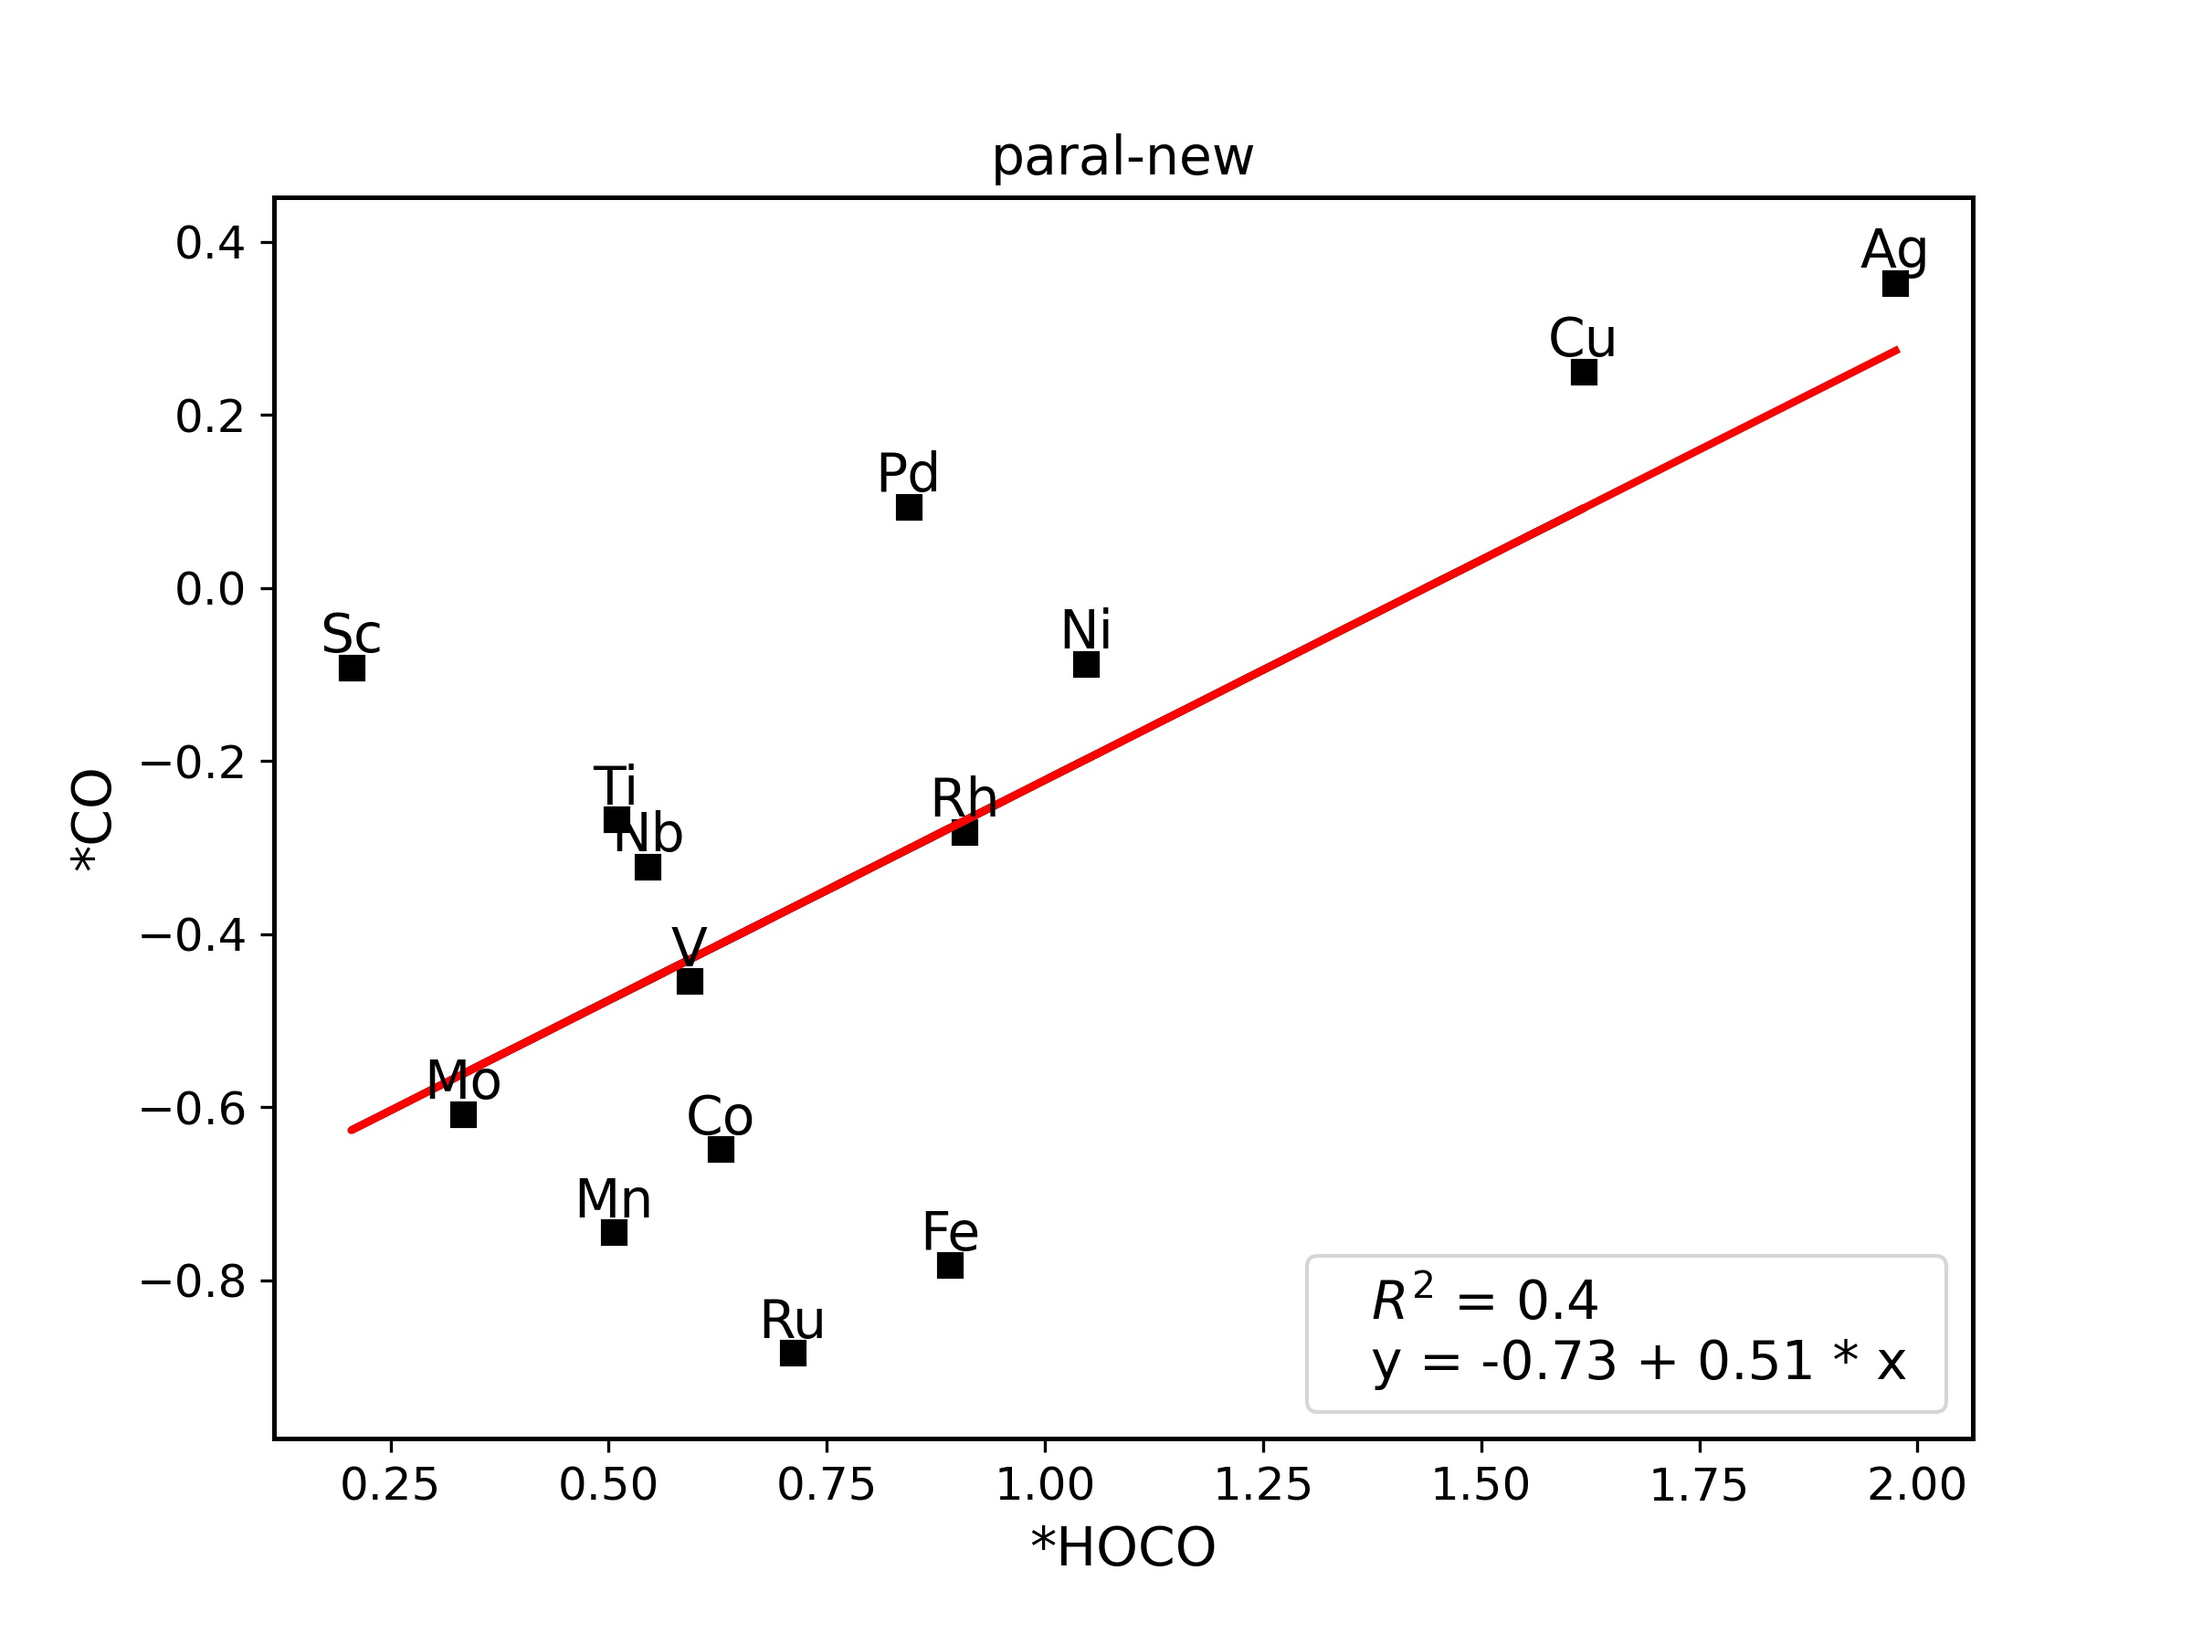
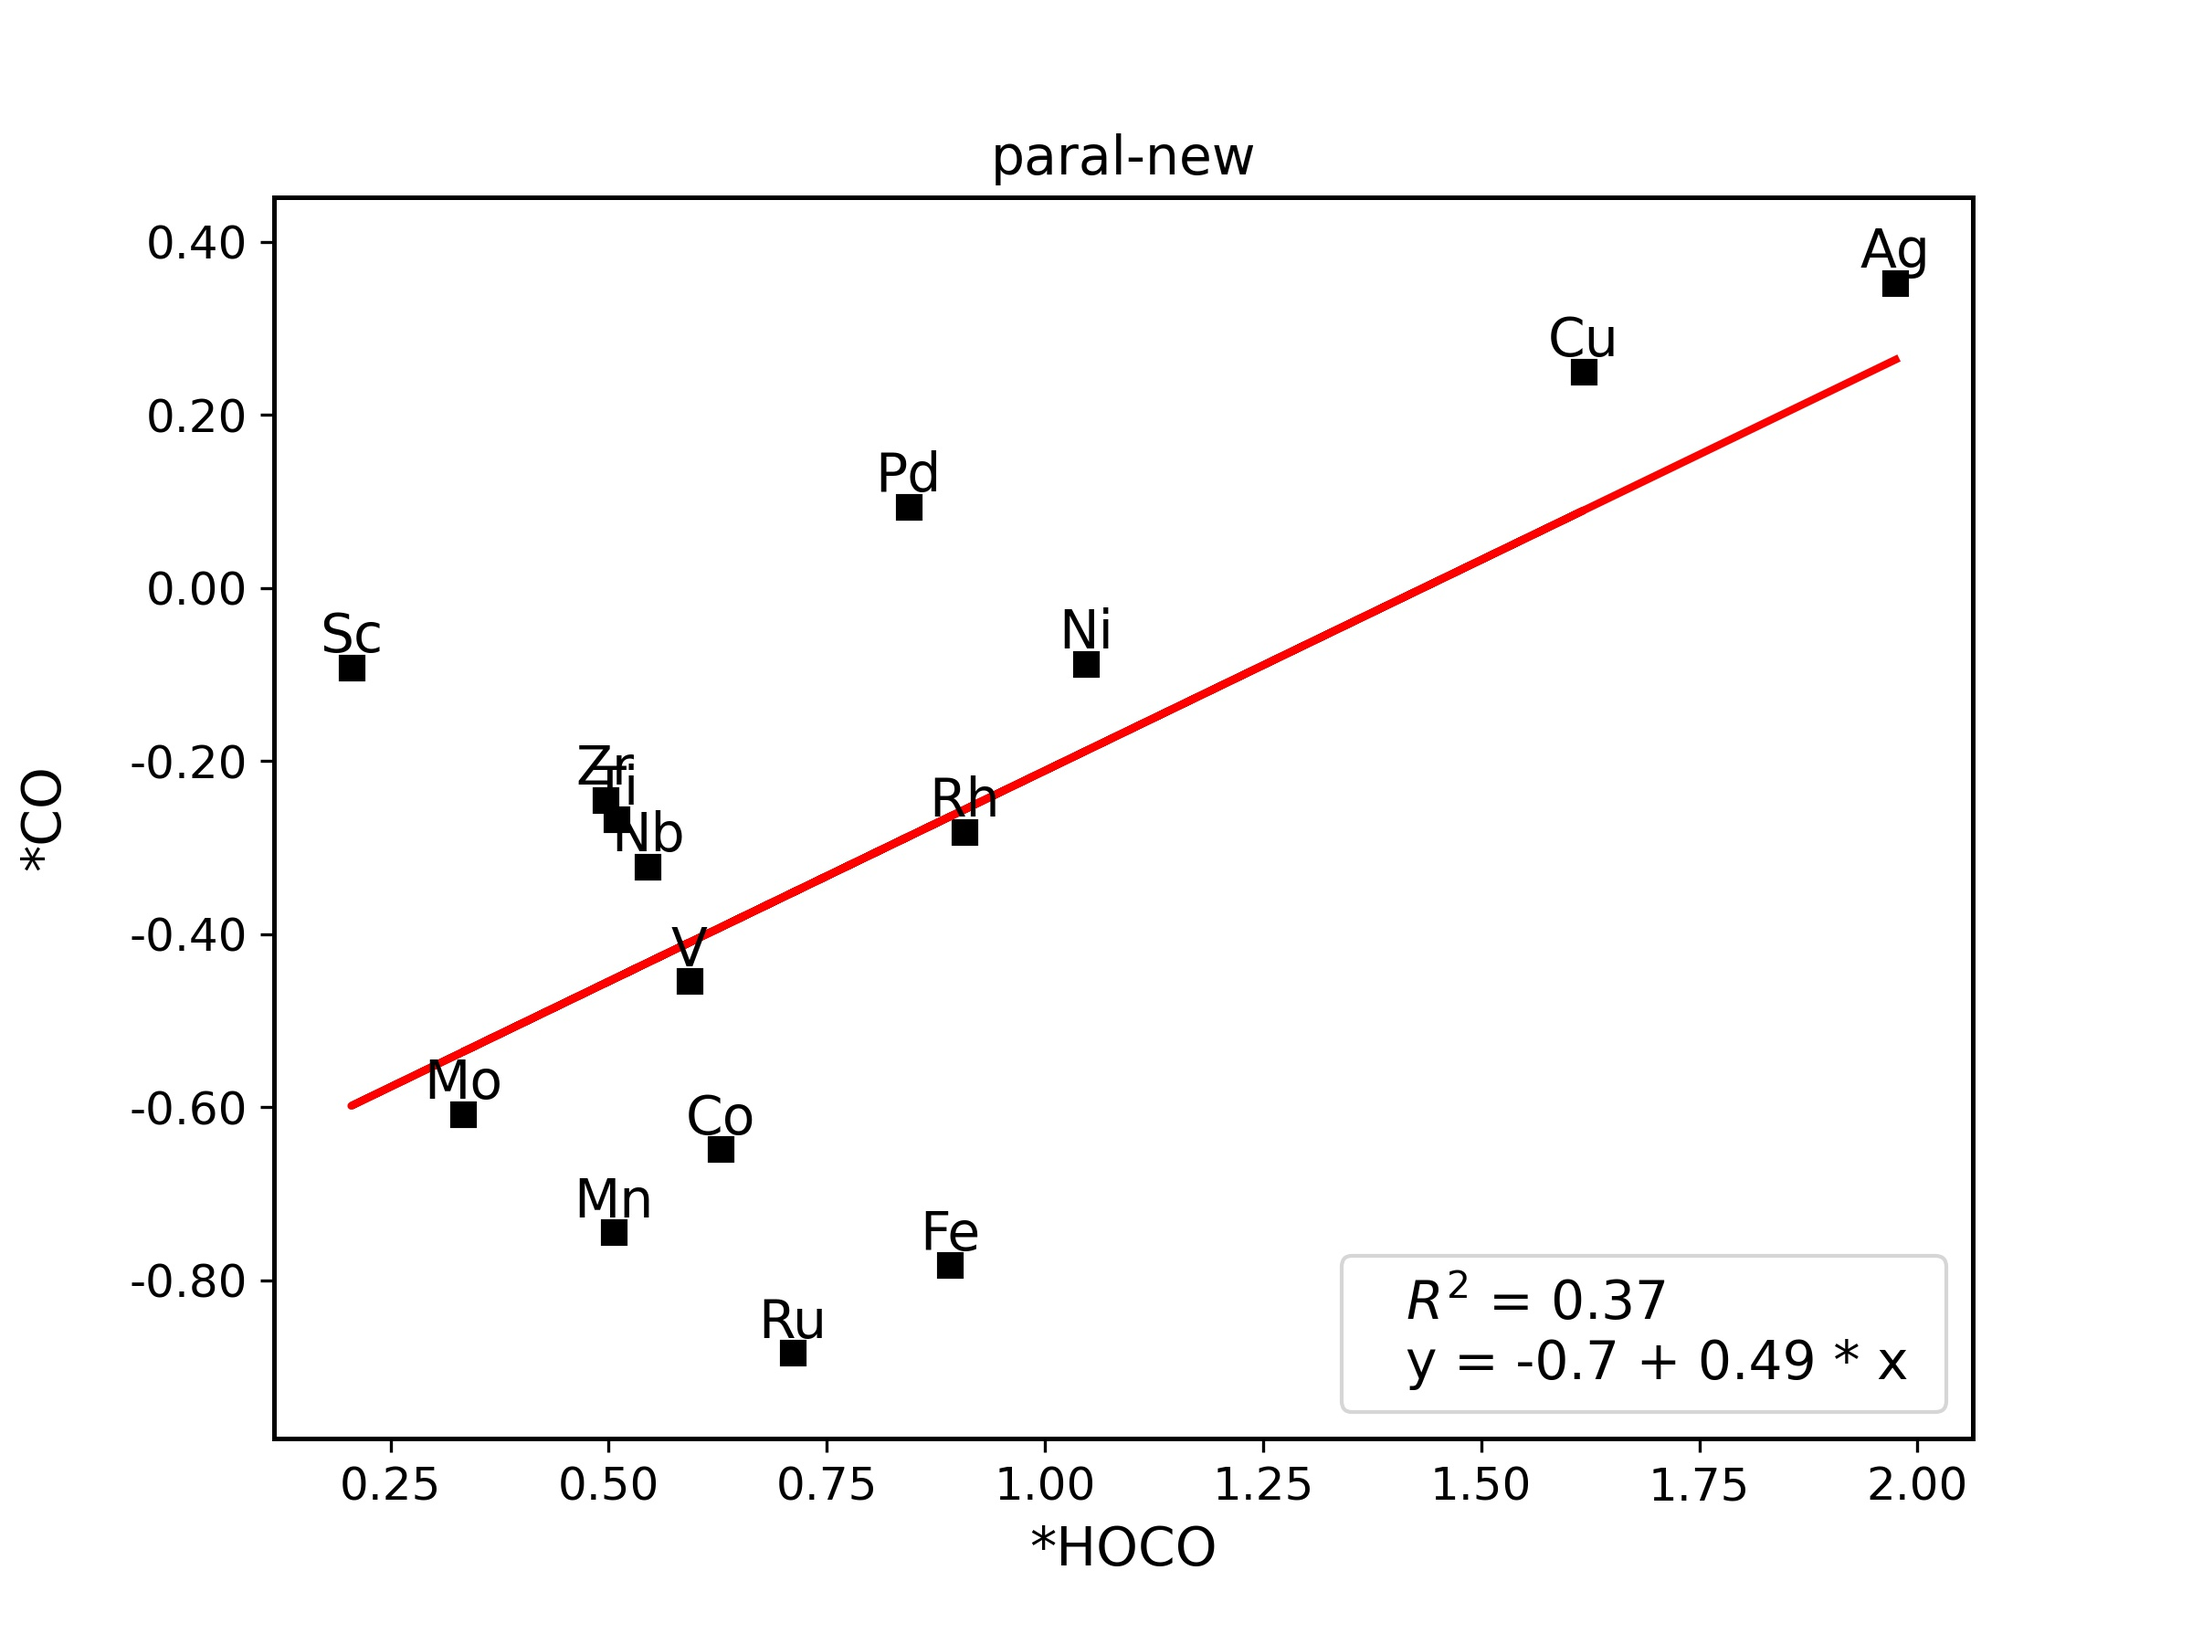
update data

diff --git a/plotpackage/myproject/CO2RR_sacling_typesetting.py b/plotpackage/myproject/CO2RR_sacling_typesetting.py
@@ -28,8 +28,8 @@ figName2 = '../pictures/ScalingRelation_typesetting.jpg' #scaling reation figure
 
 # text = ['Near', 'Line', 'Triangle', 'Parall.', 'Island', 'Overlayer']
 text = ['Single', 'Line', 'Triangle', 'Parall.', 'Island', 'Overlayer']
-colx = [2, 2, 2, 3, 3, 5] #column in excel
-coly = [3, 5, 4, 5, 4, 4] #column in excel
+colx = [3, 2, 2, 3, 3, 5] #column in excel
+coly = [2, 5, 4, 5, 4, 4] #column in excel
 for index in [0, 1, 4]:
     # col1=3 # column in excel
     # col2=4 # column in excel
@@ -51,21 +51,35 @@ for index in [0, 1, 4]:
         
         # # del rows; delete according to element names in excel
         del_ele = []
+        # if types == 'top-new':
+        #     del_ele = [] #remove distortion for near
+        # if types == 'near-new':
+        #     del_ele = ['Fe', 'Ru', 'Zr', 'Y', 'Mn', 'Nb', 'Zn' ] #remove distortion for near
+        # elif types == 'line':
+        #     del_ele = ['Ag', 'Y'] #remove distortion for line
+        # elif types == 'triangle':
+        #     del_ele = ['Y',] #remove distortion for triangle
+        # elif types == 'paral-new':
+        #     del_ele = ['Zn', 'Y', 'Zr'] #remove distortion for line
+        # elif types == 'island-new':
+        #     del_ele = ['Y', 'Zr',  'Zn'] #remove distortion for line
+        # elif types == 'overly-new':
+        #     del_ele = ['Sc', 'Zn', 'Y', 'Zr'] #remove distortion for line
+        # if types == 'near-new':
+        #     del_ele = ['Fe', 'Ru', 'Zr', 'Y', 'Mn', 'Nb', 'Zn' ] #remove distortion for near
         if types == 'top-new':
             del_ele = [] #remove distortion for near
-        if types == 'near-new':
-            del_ele = ['Fe', 'Ru', 'Zr', 'Y', 'Mn', 'Nb', 'Zn' ] #remove distortion for near
         elif types == 'line':
-            del_ele = ['Ag', 'Y'] #remove distortion for line
+            del_ele = ['Y', ] #remove distortion for line
         elif types == 'triangle':
             del_ele = ['Y',] #remove distortion for triangle
         elif types == 'paral-new':
-            del_ele = ['Zn', 'Y', 'Zr'] #remove distortion for line
+            del_ele = ['Zn', 'Y',] #remove distortion for paral
         elif types == 'island-new':
-            del_ele = ['Y', 'Zr',  'Zn'] #remove distortion for line
+            del_ele = ['Zn', 'Y', 'Zr'] #remove distortion for island
         elif types == 'overly-new':
             del_ele = ['Sc', 'Zn', 'Y', 'Zr'] #remove distortion for line
-            
+        # del_ele += ['Cu', 'Ag']
         del_rows = [observationName.index(each)+2 for each in del_ele]
         ### del_rows = [10, 12, 13, 18]  #delete according to rows in excel
         del_list = [x - 2 for x in del_rows]

diff --git a/plotpackage/myproject/CO2RR_TOF_2D_multi.py b/plotpackage/myproject/CO2RR_TOF_2D_multi.py
@@ -223,16 +223,30 @@ for types in ['top-new', 'line', 'triangle', 'paral-new', 'island-new', 'overly-
     del_ele = []
     # if types == 'near-new':
     #     del_ele = ['Fe', 'Ru', 'Zr', 'Y', 'Mn', 'Nb', 'Zn' ] #remove distortion for near
+    # if types == 'top-new':
+    #     del_ele = [] #remove distortion for near
+    # elif types == 'line':
+    #     del_ele = ['Ag', 'Y'] #remove distortion for line
+    # elif types == 'triangle':
+    #     del_ele = ['Y',] #remove distortion for triangle
+    # elif types == 'paral-new':
+    #     del_ele = ['Zn', 'Y', 'Zr'] #remove distortion for paral
+    # elif types == 'island-new':
+    #     del_ele = ['Y', 'Zr',  'Zn'] #remove distortion for island
+    # elif types == 'overly-new':
+    #     del_ele = ['Sc', 'Zn', 'Y', 'Zr'] #remove distortion for line
+    # if types == 'near-new':
+    #     del_ele = ['Fe', 'Ru', 'Zr', 'Y', 'Mn', 'Nb', 'Zn' ] #remove distortion for near
     if types == 'top-new':
         del_ele = [] #remove distortion for near
     elif types == 'line':
-        del_ele = ['Ag', 'Y'] #remove distortion for line
+        del_ele = ['Y', ] #remove distortion for line
     elif types == 'triangle':
         del_ele = ['Y',] #remove distortion for triangle
     elif types == 'paral-new':
-        del_ele = ['Zn', 'Y', 'Zr'] #remove distortion for paral
+        del_ele = ['Zn', 'Y',] #remove distortion for paral
     elif types == 'island-new':
-        del_ele = ['Y', 'Zr',  'Zn'] #remove distortion for island
+        del_ele = ['Zn', 'Y', 'Zr'] #remove distortion for island
     elif types == 'overly-new':
         del_ele = ['Sc', 'Zn', 'Y', 'Zr'] #remove distortion for line
         
@@ -256,8 +270,11 @@ for types in ['top-new', 'line', 'triangle', 'paral-new', 'island-new', 'overly-
         plt.text(ECO_d[i], EHOCO_d[i]+0.05, metal, fontsize=12, horizontalalignment='center', verticalalignment='bottom', color='white')
     
     #linear fiting and plot linear line
-    m, b = np.polyfit(ECO_d, EHOCO_d, 1)
-    plt.axline((ECO_d[0], ECO_d[0]*m +b), slope=m, color='white')
+    # m, b = np.polyfit(ECO_d, EHOCO_d, 1)
+    # plt.axline((ECO_d[3], ECO_d[3]*m +b), slope=m, color='white')
+    m, b = np.polyfit(EHOCO_d, ECO_d, 1)
+    plt.axline(( ECO_d[0], ECO_d[0]/m-b/m), slope=1/m, color='white')
+    # plt.plot(self.descriper1, m * self.descriper1 + b, linewidth=2, color=linecolor)
         
     plt.xlim([E_CO_e[0]+0.1, E_CO_e[-1]-0.1])
     plt.ylim([E_HOCO_e[0]+0.1, E_HOCO_e[-1]-0.1])

diff --git a/plotpackage/myproject/CO2RR_FED_typesetting.py b/plotpackage/myproject/CO2RR_FED_typesetting.py
@@ -46,18 +46,33 @@ for types in ['top-new', 'line', 'triangle', 'paral-new', 'island-new', 'overly-
     
     # # del rows; delete according to element names in excel
     del_ele = []
+    # if types == 'top-new':
+    #     del_ele = [] #remove distortion for near
+    # if types == 'near-new':
+    #     del_ele = ['Fe', 'Ru', 'Zr', 'Y', 'Mn', 'Nb', 'Zn' ] #remove distortion for near
+    # elif types == 'line':
+    #     del_ele = ['Ag', 'Y'] #remove distortion for line
+    # elif types == 'triangle':
+    #     del_ele = ['Y',] #remove distortion for triangle
+    # elif types == 'paral-new':
+    #     del_ele = ['Zn', 'Y', 'Zr'] #remove distortion for line
+    # elif types == 'island-new':
+    #     del_ele = ['Y', 'Zr', 'Sc', 'Zn'] #remove distortion for line
+    # elif types == 'overly-new':
+    #     del_ele = ['Sc', 'Zn', 'Y', 'Zr', 'Fe'] #remove distortion for line
+    
+    # if types == 'near-new':
+    #     del_ele = ['Fe', 'Ru', 'Zr', 'Y', 'Mn', 'Nb', 'Zn' ] #remove distortion for near
     if types == 'top-new':
         del_ele = [] #remove distortion for near
-    if types == 'near-new':
-        del_ele = ['Fe', 'Ru', 'Zr', 'Y', 'Mn', 'Nb', 'Zn' ] #remove distortion for near
     elif types == 'line':
-        del_ele = ['Ag', 'Y'] #remove distortion for line
+        del_ele = ['Y', ] #remove distortion for line
     elif types == 'triangle':
         del_ele = ['Y',] #remove distortion for triangle
     elif types == 'paral-new':
-        del_ele = ['Zn', 'Y', 'Zr'] #remove distortion for line
+        del_ele = ['Zn', 'Y',] #remove distortion for paral
     elif types == 'island-new':
-        del_ele = ['Y', 'Zr', 'Sc', 'Zn'] #remove distortion for line
+        del_ele = ['Zn', 'Y', 'Zr'] #remove distortion for island
     elif types == 'overly-new':
         del_ele = ['Sc', 'Zn', 'Y', 'Zr', 'Fe'] #remove distortion for line
         

diff --git a/plotpackage/myproject/CO2RR_plot.py b/plotpackage/myproject/CO2RR_plot.py
@@ -21,7 +21,7 @@ min_col = 1 #1st column in excel
 max_col = 5 #5th column in excel
 
 #change it only for excel
-sheet = 'island-new' #Sheet1 by defaut
+sheet = 'paral-new' #Sheet1 by defaut
 # min_row = 20 #1st column in excel
 # max_row = 37 #9st column in excel
 min_row = 1 #1st column in excel
@@ -38,10 +38,10 @@ stepsNames, observationName, X = read_excel(filename, sheet, min_col, max_col, m
 
 # # del rows; delete according to element names in excel
 del_ele = []
-del_ele = ['Y', 'Zr', 'Sc', 'Zn'] 
+# del_ele = ['Y', 'Zr', 'Sc', 'Zn'] 
 # del_ele = ['Ag', 'Cu', 'Ti', 'Sc'] #remove distortion for island
 # del_ele += ['Sc', 'Ti', 'V', 'Mn', 'Fe', 'Zn', 'Y', 'Zr', 'Nb', 'Mo', 'Ru'] #del double bonds for island
-# del_ele = ['Zn', 'Y', 'Zr']
+del_ele = ['Zn', 'Y', ]
 # del_ele = ['Zn', 'Y', 'Zr'] #remove distortion for parallelogram
 # del_ele += ['Sc', 'Ti', 'V', 'Mn', 'Zn', 'Y', 'Zr', 'Nb', 'Mo'] #del double bonds for parallelogram
 # del_ele = ['Zn', 'Y', 'Zr']

diff --git a/plotpackage/myproject/CO2RR_plot_binding_energy_multi.py b/plotpackage/myproject/CO2RR_plot_binding_energy_multi.py
@@ -21,7 +21,7 @@ min_col = 1 #1st column in excel
 max_col = 5 #5th column in excel
 
 #change it only for excel
-sheet = 'top-new' #Sheet1 by defaut
+sheet = 'paral-new' #Sheet1 by defaut
 # min_row = 40 #1st column in excel
 # max_row = 57 #9st column in excel
 # min_row = 21 #1st column in excel
@@ -50,7 +50,7 @@ del_ele = []
 # del_ele = ['Ag', 'Y', 'Cu'] #remove distortion for line
 # del_ele = ['Fe', 'Ru', 'Zr', 'Y', 'Mn', 'Nb', 'Zn' ] #remove distortion for near
 # del_ele = ['Co', 'Ni', 'Cu', 'Zn', 'Ag'] #remove distortion for top
-del_ele = ['Mn'] #remove distortion for island
+# del_ele = ['Mn'] #remove distortion for island
 del_rows = [observationName.index(each)+2 for each in del_ele]
 ### del_rows = [10, 12, 13, 18]  #delete according to rows in excel
 del_list = [x -2 for x in del_rows]
